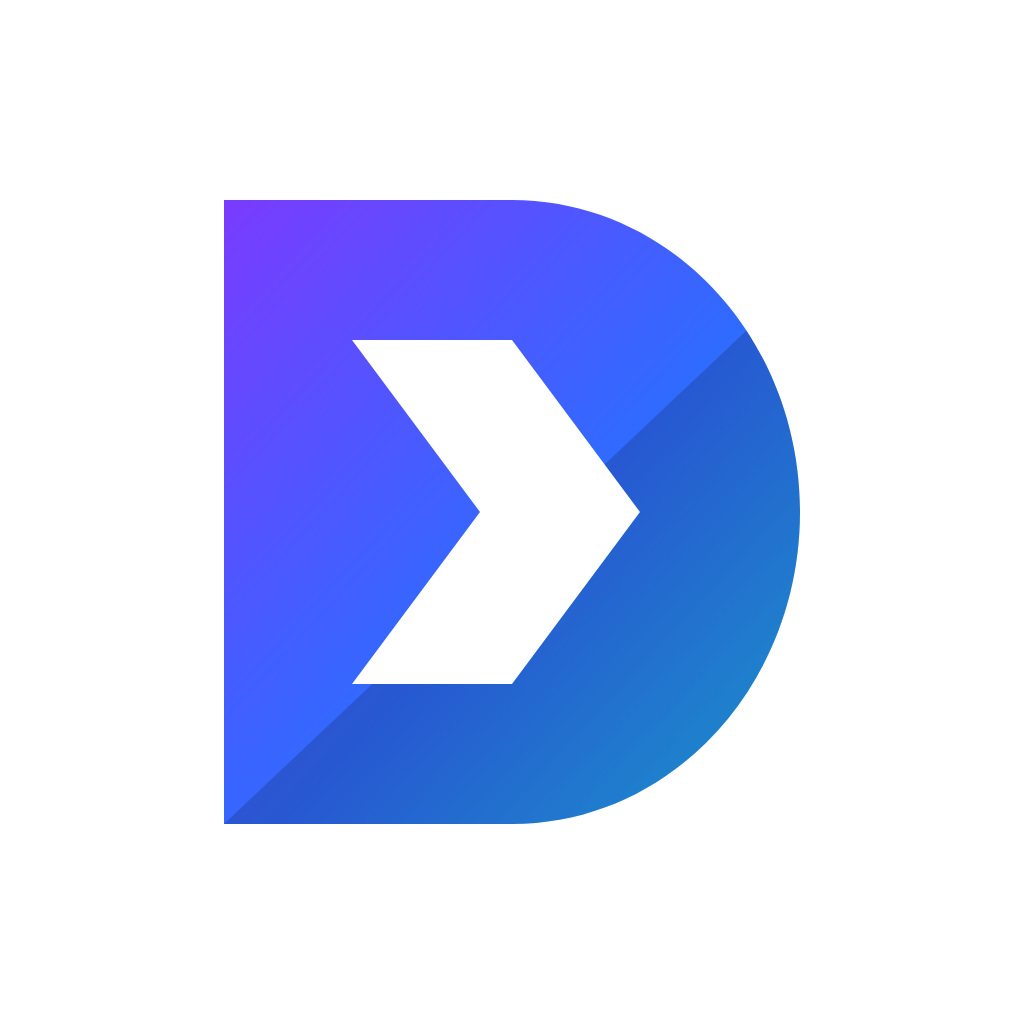
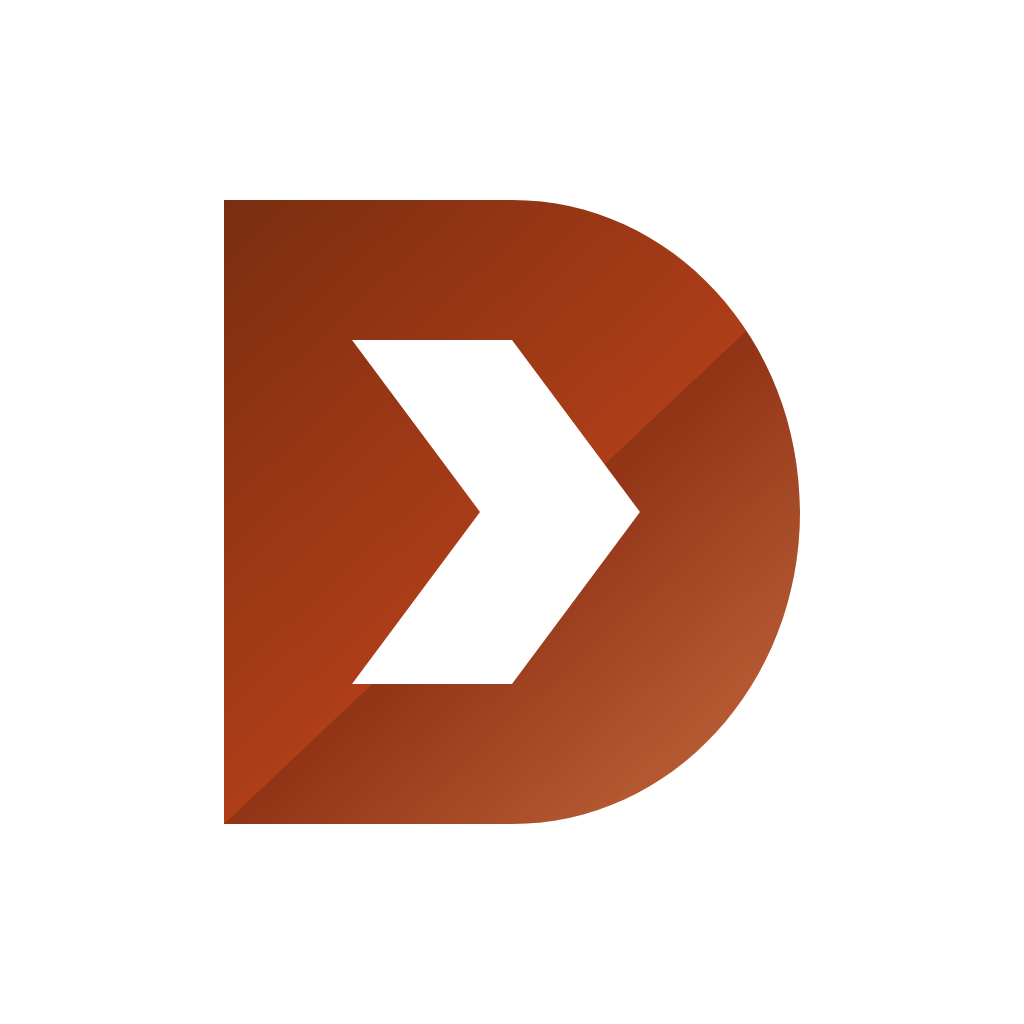
design(brand): the mark is clay, and the exports are written by a tool
The logo was a violet-to-indigo-to-cyan gradient. That specific ramp is
the example every article about generated interfaces opens with, and the
site it sat on had just moved to a warm palette, so it was also simply
wrong beside everything around it. The brand README said the gradient
was "anchored on the site's own accent so the logo and the site are the
same blue", and after the site changed that sentence was false.

Same three-stop ramp, same geometry, warm: deep clay, clay, ember, with
the site's own accent in the middle. The gradient stays, against the
article's advice, for a reason worth writing down: the fold across the
bowl is read as a change in value, and a flat mark loses the form the
fold exists to give it. It is the only gradient left anywhere in
Dartvel. The social card also loses its radial bloom and sets its
tagline in Manrope instead of a Helvetica and Arial system stack.

The twenty-odd rasters are written by tool/brand_export.dart now, run
through `flutter test` because rasterising needs an engine. It redraws
the artwork in Dart rather than rendering the SVGs: the only SVG
renderer on this machine draws this gradient as flat black, and an
export that quietly loses it is worse than none. The site's favicon, app
icons and social card come out of the same run, so they cannot fall out
of step, and brand_geometry_test.dart holds the drawn artwork and the
SVGs to the same stops, the same path and the same boxes.

Changed region(s): [[0.2188, 0.1875, 0.7812, 0.8125]]

diff --git a/packages/dartvel_flutter/lib/src/studio/studio_mark.dart b/packages/dartvel_flutter/lib/src/studio/studio_mark.dart
@@ -46,7 +46,7 @@ class DVStudioMarkPainter extends CustomPainter {
       paint.shader = const LinearGradient(
         begin: Alignment.topLeft,
         end: Alignment.bottomRight,
-        colors: <Color>[Color(0xFF7A3BFF), Color(0xFF2F6BFF), Color(0xFF1FB6F5)],
+        colors: <Color>[Color(0xFF7A2E10), Color(0xFFB03E19), Color(0xFFF0824B)],
         stops: <double>[0, 0.55, 1],
       ).createShader(_bounds);
     }

diff --git a/assets/brand/README.md b/assets/brand/README.md
@@ -9,10 +9,12 @@ project takes after:
   folded planes, and the crease is what stops a flat shape reading as a
   sticker. Dartvel's crease runs corner to corner across the bowl, so the D
   looks like one sheet turned rather than two colours.
-* **The gradient.** Supabase and Firebase both carry one, and it is what makes
-  a single letter feel like a product rather than a favicon. This one is
-  anchored on the site's own accent so the logo and the site are the same
-  blue.
+* **The gradient.** It is what makes a single letter feel like a product
+  rather than a favicon, and it is the only gradient anywhere in Dartvel: the
+  site's own bands are flat and textured with grain instead. It stays here
+  because the fold across the bowl is read as a change in value, and a flat
+  mark loses the form the fold exists to give it. Anchored on the site's own
+  accent, so the logo and the site are the same clay.
 * **The letter.** Webflow and Hasura hide a letterform in geometry. Here the
   counter — the hole in the D — is a chevron pointing right, which is the dart
   in the name and the velocity in the rest of it.
@@ -24,11 +26,19 @@ looked like for a decade.
 
 | Token | Hex | Where |
 |---|---|---|
-| Violet | `#7A3BFF` | gradient start |
-| Accent | `#2F6BFF` | gradient middle, and the site's own accent |
-| Cyan | `#1FB6F5` | gradient end |
-| Ink | `#0B1020` | wordmark on light, background on dark |
-| Paper | `#F2F5FA` | wordmark on dark |
+| Deep clay | `#7A2E10` | gradient start |
+| Clay | `#B03E19` | gradient middle, and the site's own accent |
+| Ember | `#F0824B` | gradient end, and the accent on a dark ground |
+| Ink | `#191210` | wordmark on light, background on dark |
+| Paper | `#F6F1EA` | wordmark on dark |
+
+It was violet, blue and cyan until September 2026, anchored on a seed colour
+nobody had chosen. Purple to indigo is the most recognisable mark of an
+interface that was generated rather than designed, and it had spread from
+that one seed into every neutral on the site. The palette is warm now and
+its temperature is checked: `sites/dartvel_site/test/palette_contrast_test.dart`
+fails a neutral with more blue in it than red, and fails a text pair under
+4.5:1, which nothing checked before.
 
 ## The files
 
@@ -42,7 +52,21 @@ looked like for a decade.
 
 PNGs are exported beside each at the sizes named in the filename, and JPEGs at
 the largest size for places that will not take a PNG. The SVGs are the
-originals; everything else is generated from them.
+originals.
+
+Everything else is written by:
+
+```
+cd sites/dartvel_site && flutter test tool/brand_export.dart
+```
+
+which also writes the site's own favicon, app icons and social card, so the
+two cannot fall out of step. It redraws the artwork in Dart from the same
+numbers the SVGs carry rather than rendering them, because the SVG renderer
+available here draws this gradient as flat black, and an export that quietly
+loses the gradient is worse than no export. The JPEGs are converted from the
+PNG beside them with ImageMagick, which is raster work it does correctly; the
+run fails and names them if it is not installed.
 
 ## Rules
 
@@ -55,5 +79,9 @@ originals; everything else is generated from them.
   120px wide. Below that use the badge.
 * The wordmark is drawn, not set: it is constant-width strokes on a geometric
   skeleton, so it needs no font to render and cannot be substituted by one.
-* Do not recolour the gradient, stretch the lockup, or put the light lockup on
-  a dark background — there is a variant for that.
+* Do not stretch the lockup, and do not put the light lockup on a dark
+  background. There is a variant for that.
+* Do not recolour the gradient in a single file. The stops live in
+  `sites/dartvel_site/tool/brand_art.dart` and in every SVG here, and
+  `sites/dartvel_site/test/brand_geometry_test.dart` holds the two to the
+  same values.
